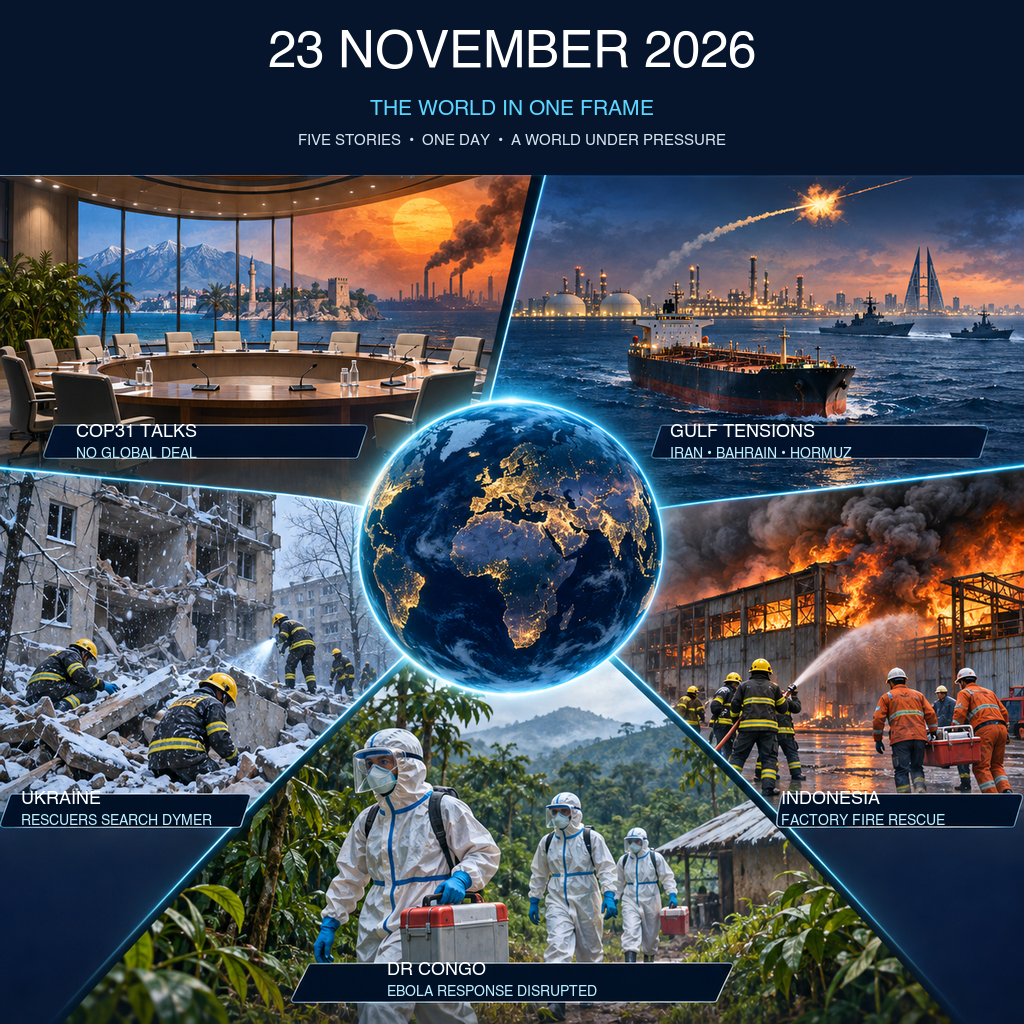
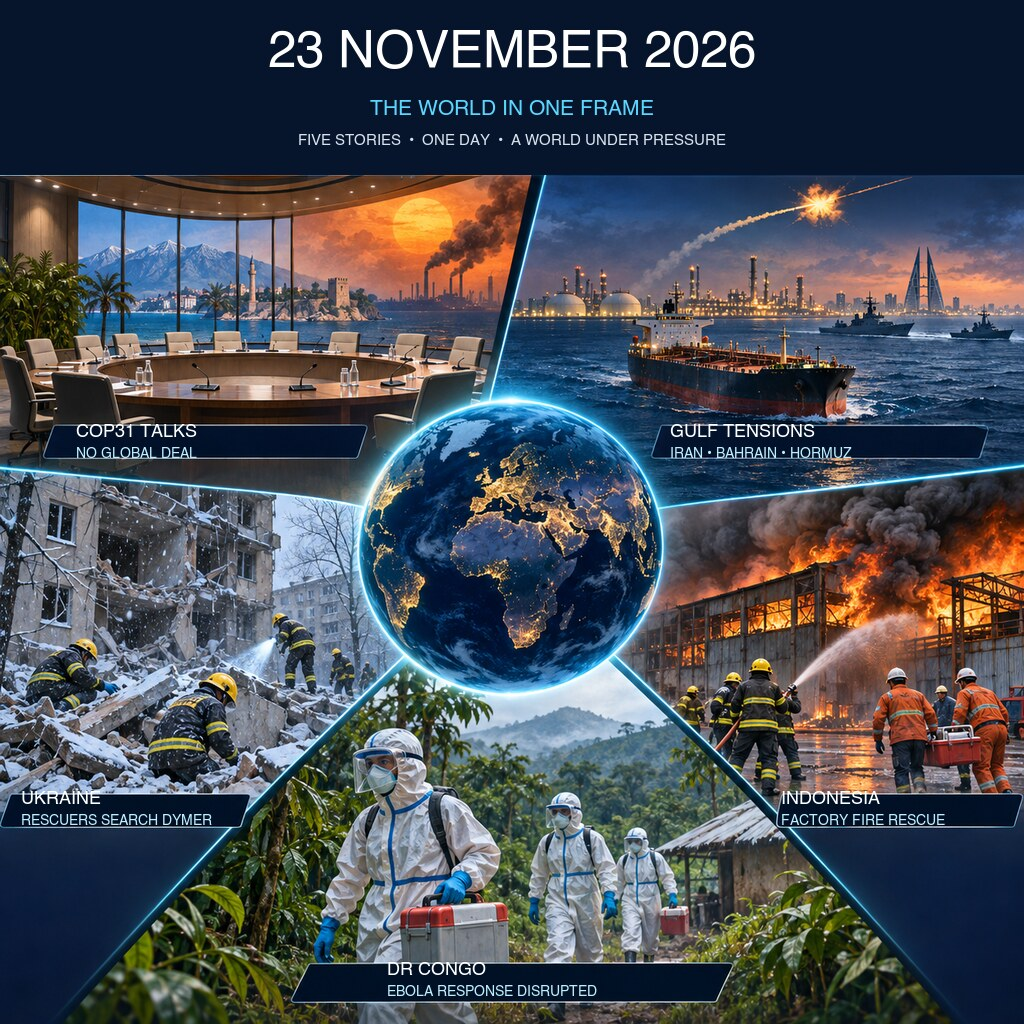
Optimize image and harden deterministic output

diff --git a/main.ts b/main.ts
@@ -1,6 +1,12 @@
-import { copyFileSync, mkdirSync } from "node:fs";
+import { copyFileSync, existsSync, mkdirSync } from "node:fs";
 import { join } from "node:path";
 
 const outputDir = process.env.MAKEFUN_OUTPUT_DIR ?? "/output";
+const sourceImage = join(import.meta.dirname, "entry.png");
+
+if (!existsSync(sourceImage)) {
+  throw new Error("Bundled news image is missing");
+}
+
 mkdirSync(outputDir, { recursive: true });
-copyFileSync(join(import.meta.dirname, "entry.png"), join(outputDir, "entry.png"));
+copyFileSync(sourceImage, join(outputDir, "entry.png"));
